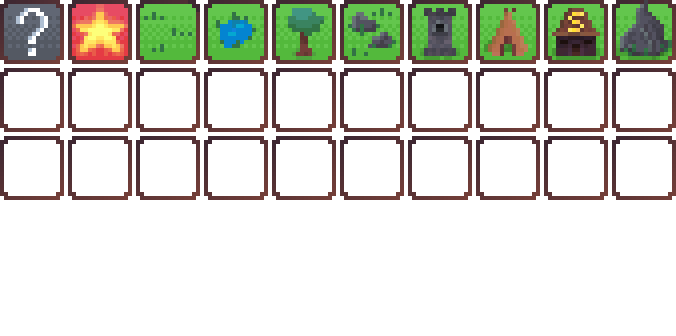
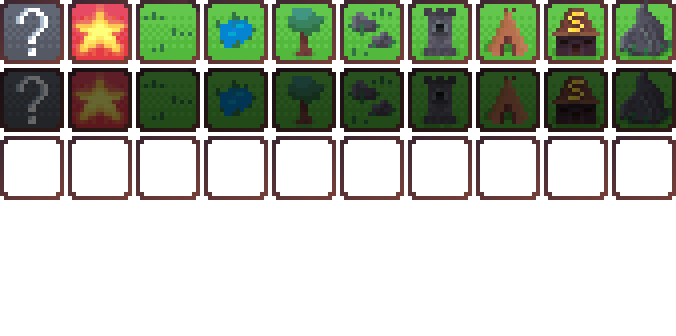
visited fields grayout

Changed region(s): [[0.0, 0.1786, 1.0, 0.4167]]

diff --git a/src/js/view/GameWorldView.js b/src/js/view/GameWorldView.js
@@ -62,6 +62,8 @@ module.exports = class GameWordlView extends Mx.View {
             mapContainer.add(fieldSprite);
             if(!f.discovered) {
                 f.hide();
+            } else if(f.visited) {
+                f.visit();
             }
         });
         // party markers
@@ -163,7 +165,7 @@ module.exports = class GameWordlView extends Mx.View {
     setupEventLayerForEvent(event) {
         // TODO external logic to build this view by event
         this.eventLayer.empty();
-        const background = new InnerWindowBackgroundComponent(8, 4);
+        const background = new InnerWindowBackgroundComponent(8, 7);
         const resolve = ActiveText.create(-80, 50, 'TEST_resolve', '#ffffff', 40, 'pixel', 0, 1, 'center');
         resolve.setAction(() => this.resolveEvent());
         this.eventLayer.adds([background, resolve]);
@@ -209,7 +211,7 @@ module.exports = class GameWordlView extends Mx.View {
 
     resolveEvent() {
         const field = this.getCurrentField();
-        field.visited = true;
+        field.visit();
         this.revealAreaAroundPartyLocation(); 
         this.eventLayer.hide();
         this.eventButton.disable();

diff --git a/src/js/model/Field.js b/src/js/model/Field.js
@@ -36,6 +36,15 @@ module.exports = class Field {
     show() {
         this.discovered = true;
         this.spriteRef.setFrame(this.spriteX, this.spriteY);
+        if(this.visited) {
+            this.visit();
+        }
+        return this;
+    }
+
+    visit() {
+        this.visited = true;
+        this.spriteRef.setFrame(this.spriteX, this.spriteY + 1);
         return this;
     }
 
